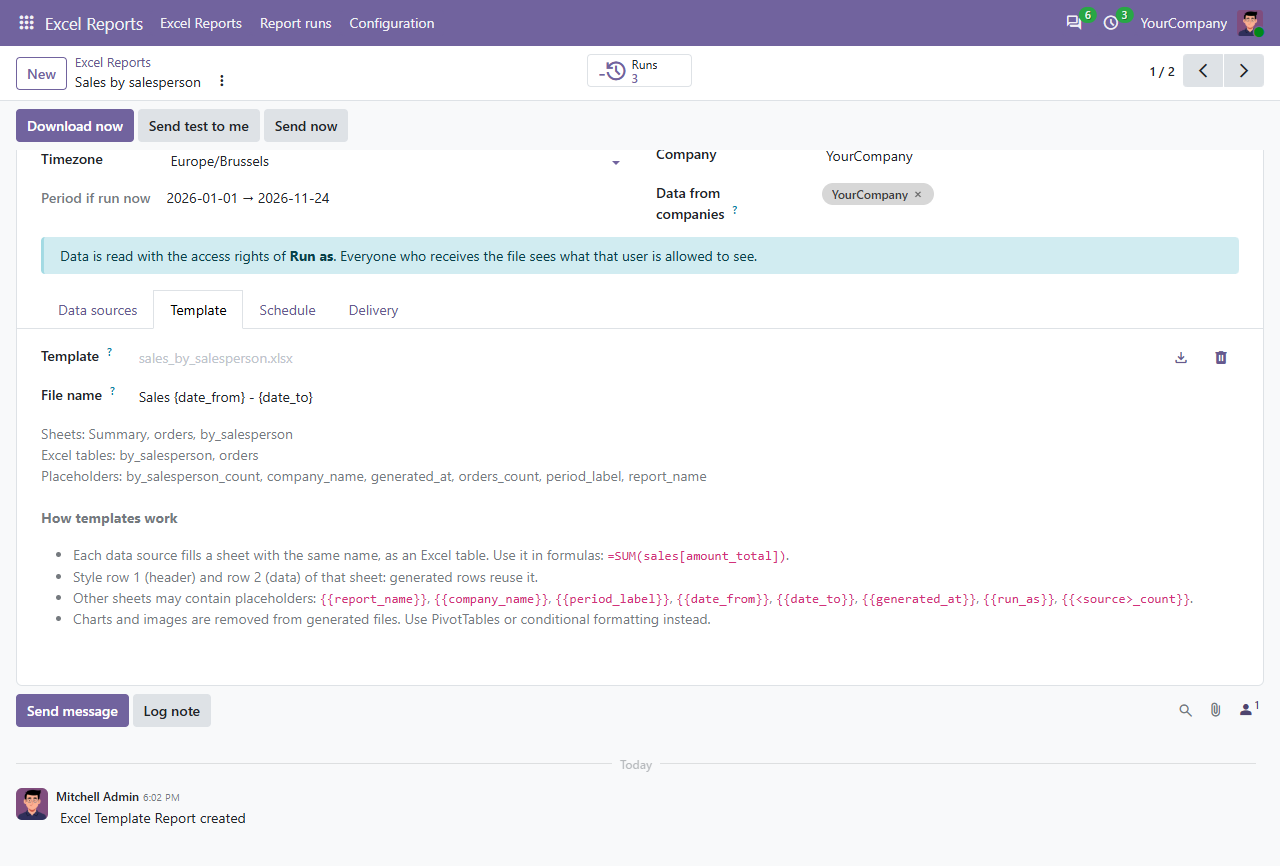
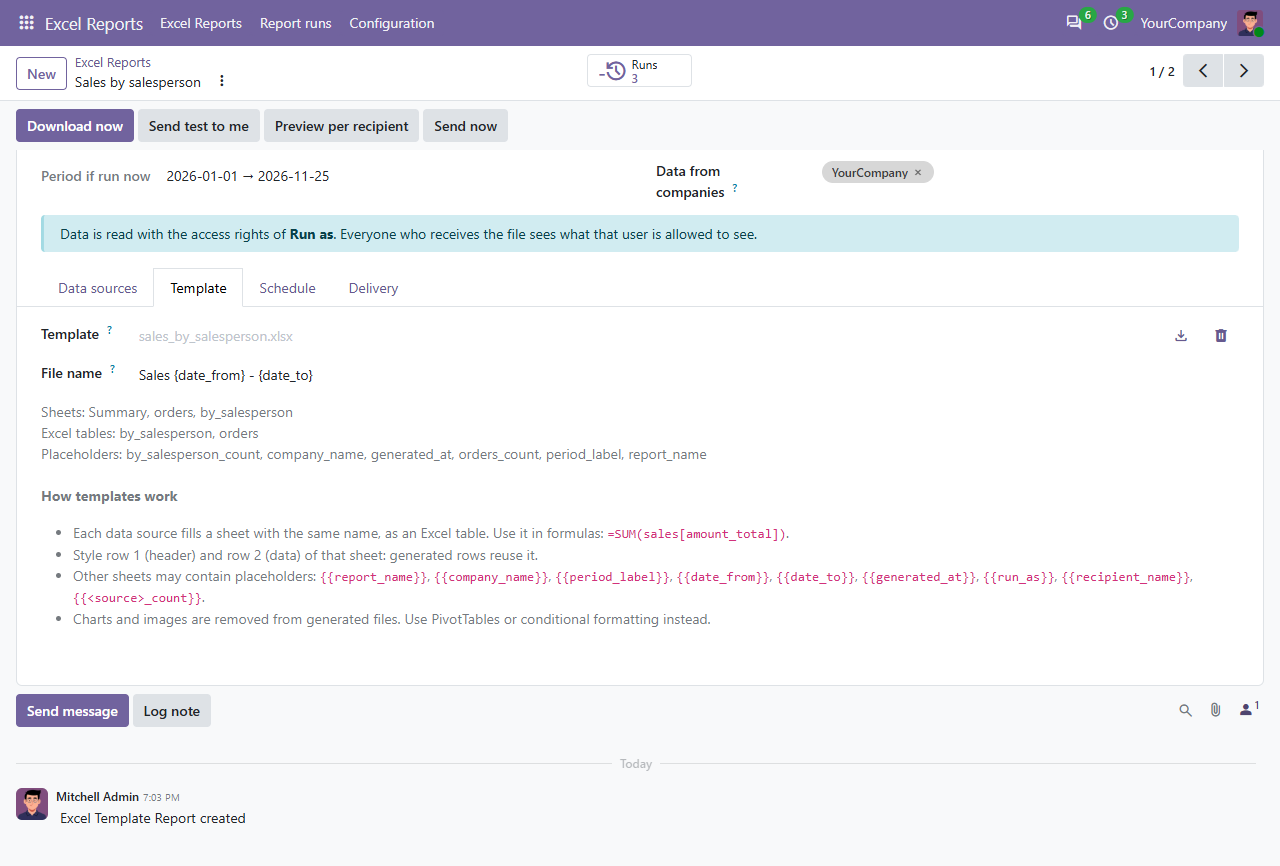
[IMP] 1.1: per-recipient files, Slack and Microsoft Teams

Changed region(s): [[0.0312, 0.1559, 0.9688, 0.7171], [0.2188, 0.1247, 0.4062, 0.1871], [0.9375, 0.3741, 0.9688, 0.4365]]

diff --git a/xlsx_template_report/models/xlsx_report.py b/xlsx_template_report/models/xlsx_report.py
@@ -18,6 +18,9 @@ XLSX_MIMETYPE = "application/vnd.openxmlformats-officedocument.spreadsheetml.she
 GROUP_USER = "xlsx_template_report.group_xlsx_report_user"
 GROUP_MANAGER = "xlsx_template_report.group_xlsx_report_manager"
 GROUP_SQL = "xlsx_template_report.group_xlsx_report_sql"
+# Context keys set while rendering a file for one recipient (used by the Pro addon).
+RECIPIENT_PARTNER_KEY = "xlsx_recipient_partner_id"
+RECIPIENT_USER_KEY = "xlsx_recipient_user_id"
 
 WEEKDAYS = [("0", "Monday"), ("1", "Tuesday"), ("2", "Wednesday"), ("3", "Thursday"),
             ("4", "Friday"), ("5", "Saturday"), ("6", "Sunday")]
@@ -152,19 +155,29 @@ class XlsxReport(models.Model):
                                      week_start=int(self.week_start or 0),
                                      n_days=self.period_days or 7)
 
-    def _get_data_env(self):
-        """Environment used to read data: the owner's rights, never superuser."""
+    def _get_data_env(self, recipient=None):
+        """Environment used to read data: the owner's rights, never superuser.
+
+        ``recipient`` (a ``res.partner``) only adds its ids to the context, so data
+        source domains can filter on ``recipient_partner_id`` / ``recipient_user_id``.
+        It never grants more rights than the owner has.
+        """
         self.ensure_one()
         owner = self.owner_id
         companies = (self.company_ids or self.company_id) & owner.company_ids
         if not companies:
             raise UserError(_("The 'Run as' user has no access to the selected companies."))
         main_company = self.company_id if self.company_id in companies else companies[0]
-        return self.env(
-            user=owner.id, su=False,
-            context=dict(self.env.context, tz=self.timezone, lang=owner.lang,
-                         allowed_company_ids=[main_company.id] + (companies - main_company).ids),
-        )
+        context = dict(self.env.context, tz=self.timezone, lang=owner.lang,
+                       allowed_company_ids=[main_company.id] + (companies - main_company).ids)
+        context.pop(RECIPIENT_PARTNER_KEY, None)
+        context.pop(RECIPIENT_USER_KEY, None)
+        if recipient:
+            user = self.env["res.users"].sudo().with_context(active_test=False).search(
+                [("partner_id", "=", recipient.id)], limit=1)
+            context[RECIPIENT_PARTNER_KEY] = recipient.id
+            context[RECIPIENT_USER_KEY] = user.id or False
+        return self.env(user=owner.id, su=False, context=context)
 
     def _build_filename(self, period):
         self.ensure_one()
@@ -183,13 +196,17 @@ class XlsxReport(models.Model):
             name = name.replace(char, "-")
         return name.strip()[:150] + ".xlsx"
 
-    def _render(self):
-        """Return ``(content, filename, row_count, warnings)``."""
+    def _render(self, recipient=None):
+        """Return ``(content, filename, row_count, warnings)``.
+
+        ``recipient`` (a ``res.partner``): render the file for that person only,
+        see :meth:`_get_data_env`.
+        """
         self.ensure_one()
         if not self.source_ids and not self.template:
             raise UserError(_("Add a template or at least one data source."))
         period = self._get_period()
-        data_env = self._get_data_env()
+        data_env = self._get_data_env(recipient)
         tables, row_count = {}, 0
         for source in self.source_ids.sorted("sequence"):
             data = source._fetch(data_env, period)
@@ -205,6 +222,7 @@ class XlsxReport(models.Model):
             "period_label": period.label,
             "generated_at": datetime.now(tz).replace(tzinfo=None, microsecond=0),
             "run_as": self.owner_id.name,
+            "recipient_name": recipient.sudo().name if recipient else "",
         }
         for name, data in tables.items():
             values["%s_count" % name] = len(data.rows)

diff --git a/xlsx_template_report/models/xlsx_report_source.py b/xlsx_template_report/models/xlsx_report_source.py
@@ -9,7 +9,7 @@ from odoo.exceptions import AccessError, UserError, ValidationError
 from odoo.tools.safe_eval import safe_eval
 
 from .. import engine
-from .xlsx_report import GROUP_SQL
+from .xlsx_report import GROUP_SQL, RECIPIENT_PARTNER_KEY, RECIPIENT_USER_KEY
 
 UNSUPPORTED_FIELD_TYPES = ("binary", "image", "properties", "properties_definition", "json")
 SQL_START_RE = re.compile(r"^\s*(select|with)\b", re.IGNORECASE)
@@ -34,7 +34,10 @@ class XlsxReportSource(models.Model):
     model_id = fields.Many2one("ir.model", string="Model", ondelete="cascade",
                                domain=[("transient", "=", False)])
     model_name = fields.Char(related="model_id.model", string="Model name")
-    domain = fields.Char(default="[]")
+    domain = fields.Char(
+        default="[]",
+        help="Variables: uid, user, date_from, date_to, company_ids, and for per-recipient "
+             "delivery (Pro) recipient_partner_id, recipient_user_id.")
     date_field_id = fields.Many2one(
         "ir.model.fields", string="Filter period on",
         domain="[('model_id', '=', model_id), ('ttype', 'in', ('date', 'datetime')), ('store', '=', True)]",
@@ -63,7 +66,8 @@ class XlsxReportSource(models.Model):
 
     sql_query = fields.Text(
         groups=GROUP_SQL,
-        help="Read-only SELECT. Parameters: %(date_from)s, %(date_to)s, %(company_ids)s. "
+        help="Read-only SELECT. Parameters: %(date_from)s, %(date_to)s, %(company_ids)s, "
+             "%(recipient_partner_id)s, %(recipient_user_id)s (NULL unless per-recipient). "
              "Write a literal % as %%. SQL ignores record rules: anyone receiving the report "
              "sees everything the query returns.")
     row_limit = fields.Integer(default=50000, required=True)
@@ -145,6 +149,10 @@ class XlsxReportSource(models.Model):
             "date_from": period.date_from,
             "date_to": period.date_to,
             "company_ids": Model.env.companies.ids,
+            # Per-recipient reports (Pro): ids of the person the file is for,
+            # False when the report is rendered for everyone.
+            "recipient_partner_id": Model.env.context.get(RECIPIENT_PARTNER_KEY) or False,
+            "recipient_user_id": Model.env.context.get(RECIPIENT_USER_KEY) or False,
             "datetime": datetime,
             "timedelta": timedelta,
         }
@@ -258,6 +266,8 @@ class XlsxReportSource(models.Model):
             "date_from": period.date_from,
             "date_to": period.date_to,
             "company_ids": tuple(env.companies.ids) or (0,),
+            "recipient_partner_id": env.context.get(RECIPIENT_PARTNER_KEY) or None,
+            "recipient_user_id": env.context.get(RECIPIENT_USER_KEY) or None,
         }
         # A separate cursor so the READ ONLY transaction and the timeout never
         # affect the main transaction. PostgreSQL itself rejects any write.

diff --git a/xlsx_template_report/models/compat.py b/xlsx_template_report/models/compat.py
@@ -28,6 +28,20 @@ def binary_bytes(value):
     return base64.b64decode(value)
 
 
+def attachment_bytes(attachment):
+    """Content of an ``ir.attachment``.
+
+    Unlike other Binary fields, ``raw`` is already raw bytes on Odoo <= 19 (never
+    base64), so do not use :func:`binary_bytes` for it. Odoo 20 wraps it in a
+    ``BinaryValue``.
+    """
+    value = attachment.raw
+    if not value:
+        return b""
+    content = getattr(value, "content", None)
+    return bytes(content if content is not None else value)
+
+
 def get_config_str(env, key):
     params = env["ir.config_parameter"].sudo()
     if hasattr(params, "get_str"):  # Odoo 20

diff --git a/xlsx_template_report/__manifest__.py b/xlsx_template_report/__manifest__.py
@@ -3,7 +3,7 @@
     "name": "Excel Template Reports",
     "summary": "Design reports in your own Excel file: Odoo fills in the data (free). "
                "Scheduling and Email/Telegram delivery: Excel Template Reports Pro",
-    "version": "19.0.1.0.0",
+    "version": "19.0.1.1.0",
     "category": "Productivity",
     "author": "Gray Bob",
     "support": "gray.wolf1290@gmail.com",
